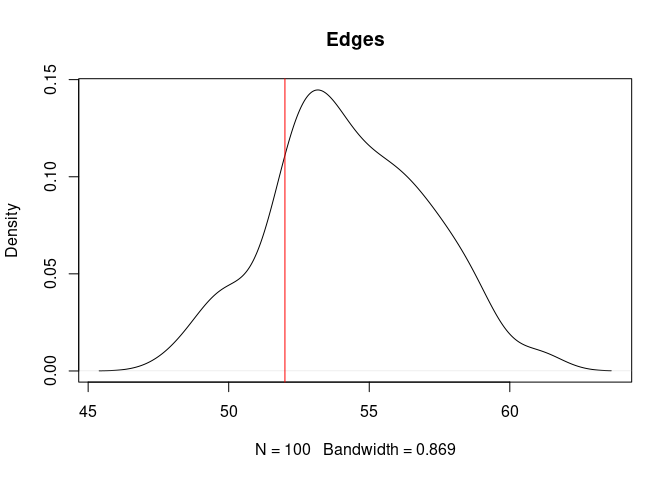
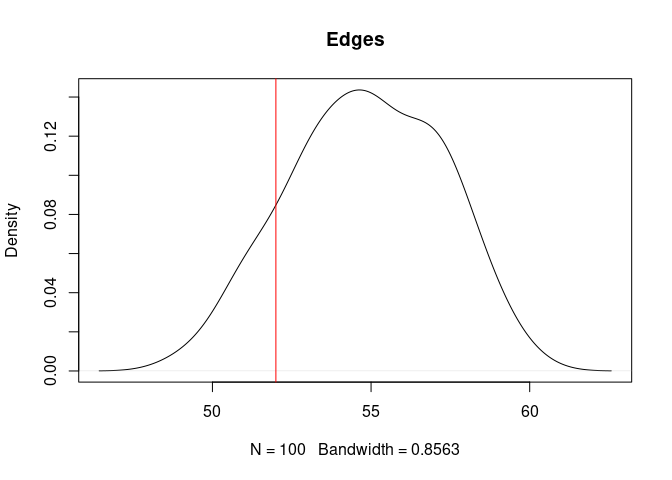
to v1.3.0. Rename 'Chez Thuilet' dataset in 'Villetoureix'. Add DOIs

diff --git a/README.md b/README.md
@@ -2,8 +2,17 @@
 # Archeofrag
 
 An R package for refitting and spatial analysis in archeology.
-
-`Archeofrag` includes methods to analyse spatial units in archaeology from the relationships between refitting fragmented objects scattered in these units (e.g. stratigraphic layers). Graphs are used to model archaeological observations. The package is mainly based on the `igraph` package for graph analysis. Functions can: 1) create, manipulate, visualise, and simulate fragmentation graphs, 2) measure the cohesion and admixture of archaeological spatial units, and 3) characterise the topology of a specific set of refitting relationships. A series of published empirical datasets is included. This package is complemented by the `archeofrag.gui` R package, a companion GUI application available at <https://analytics.huma-num.fr/archeofrag/>.
+`Archeofrag` includes methods to analyse spatial units in archaeology
+from the relationships between refitting fragmented objects scattered in
+these units (e.g. stratigraphic layers). Graphs are used to model
+archaeological observations. The package is mainly based on the `igraph`
+package for graph analysis. Functions can: 1) create, manipulate,
+visualise, and simulate fragmentation graphs, 2) measure the cohesion
+and admixture of archaeological spatial units, and 3) characterise the
+topology of a specific set of refitting relationships. A series of
+published empirical datasets is included. This package is complemented
+by the `archeofrag.gui` R package, a companion GUI application available
+at <https://analytics.huma-num.fr/archeofrag/>.
 
 [![Project Status: Active – The project has reached a stable, usable
 state and is being actively
@@ -23,65 +32,67 @@ Downloads](https://cranlogs.r-pkg.org/badges/grand-total/archeofrag?color=bright
 [![license](https://img.shields.io/badge/License-GPL%20v3-blue.svg)](https://www.r-project.org/Licenses/GPL-3)
 [![status](https://joss.theoj.org/papers/ff2007d87bd4c8460b265c69dc403316/status.svg)](https://joss.theoj.org/papers/ff2007d87bd4c8460b265c69dc403316)
 
-- [**References**](#references)
-- [**Installation**](#installation)
-  - [R package](#r-package)
-  - [GUI version](#gui-version)
-- [**Community guidelines**](#community-guidelines)
-  - [Reporting bugs](#reporting-bugs)
-  - [Suggesting changes](#suggesting-changes)
-- [**Building fragmentation graphs**](#building-the-fragmentation-graph)
-- [**Alterating fragmentation
-  graphs**](##alterating-fragmentation-graphs)
-- [**Edge weighting, cohesion and admixture
-  computation**](#edge-weighting-cohesion-and-admixture-computation)
-- [**Testing layer formation hypotheses using simulated
-  data**](#testing-layer-formation-hypotheses-using-simulated-data)
-  - [Generating artificial fragmentation
-    graphs](#generating-artificial-fragmentation-graphs)
-  - [Testing hypotheses](#testing-hypotheses)
-- [**Assessing spatial unit boundaries using similarity
-  relationships**](#assessing-spatial-unit-boundaries-using-similarity-relationships)
-- [**Characterising spatial units from their
-  fragmentation**](#characterising-spatial-units-from-their-fragmentation)
+  - [**References**](#references)
+  - [**Installation**](#installation)
+      - [R package](#r-package)
+      - [GUI version](#gui-version)
+  - [**Community guidelines**](#community-guidelines)
+      - [Reporting bugs](#reporting-bugs)
+      - [Suggesting changes](#suggesting-changes)
+  - [**Building fragmentation
+    graphs**](#building-the-fragmentation-graph)
+  - [**Alterating fragmentation
+    graphs**](##alterating-fragmentation-graphs)
+  - [**Edge weighting, cohesion and admixture
+    computation**](#edge-weighting-cohesion-and-admixture-computation)
+  - [**Testing layer formation hypotheses using simulated
+    data**](#testing-layer-formation-hypotheses-using-simulated-data)
+      - [Generating artificial fragmentation
+        graphs](#generating-artificial-fragmentation-graphs)
+      - [Testing hypotheses](#testing-hypotheses)
+  - [**Assessing spatial unit boundaries using similarity
+    relationships**](#assessing-spatial-unit-boundaries-using-similarity-relationships)
+  - [**Characterising spatial units from their
+    fragmentation**](#characterising-spatial-units-from-their-fragmentation)
 
 # References
 
 Details about the *archeofrag* / TSAR method were published in:
 
-- Plutniak, S. 2022. “Archeofrag: an R package for Refitting and Spatial
-  Analysis in Archaeology”, *Journal of Open Source Software*, 7 (75),
-  p. 4335. DOI:
-  [10.21105/joss.04335](https://doi.org/10.21105/joss.04335).
-- Plutniak, S. 2022. “[Archeofrag: un package R pour les remontages et
-  l’analyse spatiale en
-  archéologie](https://rzine.gitpages.huma-num.fr/site/ressources/20220811_archeofrag_joss/)”,
-  *Rzine*.
-- Plutniak, S. 2022. “[L’analyse topologique des remontages
-  archéologiques : la méthode TSAR et le package R
-  archeofrag](http://www.prehistoire.org/offres/doc_inline_src/515/0-BSPF_2022_1_2e_partie_Correspondance_PLUTNIAK.pdf)”,
-  *Bulletin de la Société préhistorique française*, 119 (1), p. 110–113.
-- Plutniak, S. 2021. “[The Strength of Parthood Ties. Modelling Spatial
-  Units and Fragmented Objects with the TSAR Method – Topological Study
-  of Archaeological
-  Refitting](https://hal.archives-ouvertes.fr/hal-03419952)” *Journal of
-  Archaeological Science*, 136, p. 105501. DOI:
-  [10.1016/j.jas.2021.105501](https://doi.org/10.1016/j.jas.2021.105501).
+  - Plutniak, S. 2022. “Archeofrag: an R package for Refitting and
+    Spatial Analysis in Archaeology”, *Journal of Open Source Software*,
+    7 (75), p. 4335. DOI:
+    [10.21105/joss.04335](https://doi.org/10.21105/joss.04335).
+  - Plutniak, S. 2022. “[Archeofrag: un package R pour les remontages et
+    l’analyse spatiale en
+    archéologie](https://rzine.gitpages.huma-num.fr/site/ressources/20220811_archeofrag_joss/)”,
+    *Rzine*.
+  - Plutniak, S. 2022. “[L’analyse topologique des remontages
+    archéologiques : la méthode TSAR et le package R
+    archeofrag](http://www.prehistoire.org/offres/doc_inline_src/515/0-BSPF_2022_1_2e_partie_Correspondance_PLUTNIAK.pdf)”,
+    *Bulletin de la Société préhistorique française*, 119 (1),
+    p. 110–113.
+  - Plutniak, S. 2021. “[The Strength of Parthood Ties. Modelling
+    Spatial Units and Fragmented Objects with the TSAR Method –
+    Topological Study of Archaeological
+    Refitting](https://hal.archives-ouvertes.fr/hal-03419952)” *Journal
+    of Archaeological Science*, 136, p. 105501. DOI:
+    [10.1016/j.jas.2021.105501](https://doi.org/10.1016/j.jas.2021.105501).
 
 Use cases were published in:
 
-- Plutniak, S., J. Caro, C. Manen 2023. “Four Problems for
-  Archaeological Fragmentation Studies. Discussion and Application to
-  the Taï Cave’s Neolithic Pottery Material (France)”, in A. Sörman et
-  al., *Broken Bodies, Places and Objects. New Perspectives on
-  Fragmentation in Archaeology*, London: Routledge, DOI:
-  [10.4324/9781003350026-10](https://doi.org/10.4324/9781003350026-10).
-- Plutniak, S. 2021. “[The Strength of Parthood Ties. Modelling Spatial
-  Units and Fragmented Objects with the TSAR Method – Topological Study
-  of Archaeological
-  Refitting](https://hal.archives-ouvertes.fr/hal-03419952)” *Journal of
-  Archaeological Science*, 136, p. 105501. DOI:
-  [10.1016/j.jas.2021.105501](https://doi.org/10.1016/j.jas.2021.105501).
+  - Plutniak, S., J. Caro, C. Manen 2023. “Four Problems for
+    Archaeological Fragmentation Studies. Discussion and Application to
+    the Taï Cave’s Neolithic Pottery Material (France)”, in A. Sörman et
+    al., *Broken Bodies, Places and Objects. New Perspectives on
+    Fragmentation in Archaeology*, London: Routledge, DOI:
+    [10.4324/9781003350026-10](https://doi.org/10.4324/9781003350026-10).
+  - Plutniak, S. 2021. “[The Strength of Parthood Ties. Modelling
+    Spatial Units and Fragmented Objects with the TSAR Method –
+    Topological Study of Archaeological
+    Refitting](https://hal.archives-ouvertes.fr/hal-03419952)” *Journal
+    of Archaeological Science*, 136, p. 105501. DOI:
+    [10.1016/j.jas.2021.105501](https://doi.org/10.1016/j.jas.2021.105501).
 
 # Installation
 
@@ -114,11 +125,10 @@ BiocManager::install("RBGL")
 
 The `archeofrag` package is complemented by a graphic-user interface
 version, `archeofrag.gui` (also distributed as an R package). See a
-[live demo
-here](https://analytics.huma-num.fr/archeofrag/).
-This GUI version, focusing on connection relationships only
-(i.e. “proper refits”), make it easy to explore quickly and efficiently
-a refitting dataset.
+[live demo here](https://analytics.huma-num.fr/archeofrag/). This GUI
+version, focusing on connection relationships only (i.e. “proper
+refits”), make it easy to explore quickly and efficiently a refitting
+dataset.
 
 # Community guidelines
 
@@ -144,13 +154,14 @@ them, called “Liang Abu”, related to the pottery fragments found on the
 surface and in the first two layers of the Liang Abu rock shelter,
 Borneo, Indonesia. The data set contains three data frames:
 
-- a table with information about the fragments (a unique identifier, the
-  layer, their length and width, etc.),
-- a table with the connection relationships between these fragments
-  (each row contains the unique identifiers of two refitting fragments),
-- a table with the similarity relationships between these fragments (two
-  fragments are termed “similar” if they seem to come from the same
-  object but do not have connecting edges.
+  - a table with information about the fragments (a unique identifier,
+    the layer, their length and width, etc.),
+  - a table with the connection relationships between these fragments
+    (each row contains the unique identifiers of two refitting
+    fragments),
+  - a table with the similarity relationships between these fragments
+    (two fragments are termed “similar” if they seem to come from the
+    same object but do not have connecting edges.
 
 The `make_frag_object` function builds objects with the class “frag”.
 Frag objects are not required by the other `Archeofrag` functions,
@@ -195,7 +206,7 @@ par(mar=c(1, 0, 2, 0))
 frag.graph.plot(abu.g, layer.attr="layer", main="All layers")
 ```
 
-<img src="man/figures/README-manipulate-plot-abu-1.png" style="display: block; margin: auto;" />
+<img src="man/figures/README-manipulate-plot-abu-1.png" alt="" style="display: block; margin: auto;" />
 
 The fragments are coloured by layer and the three inter-layer
 relationships can be observed.
@@ -215,7 +226,7 @@ par(mar=c(1, 0, 2, 0))
 frag.graph.plot(abu.g12, layer.attr="layer", main="Layers 1 and 2")
 ```
 
-<img src="man/figures/README-manipulate-plot-abu2-1.png" style="display: block; margin: auto;" />
+<img src="man/figures/README-manipulate-plot-abu2-1.png" alt="" style="display: block; margin: auto;" />
 
 The function has a different behaviour if applied to a fragmentation
 graph with only two spatial units: the nodes are vertically localised to
@@ -231,12 +242,15 @@ between the two spatial units (`mixed.components.only`).
 ``` r
 frag.get.layers.pair(abu.g, layer.attr="layer", sel.layers=c("1", "2"),
                      size.mini=2, mixed.components.only=TRUE)
-#> IGRAPH bed61b7 UN-- 19 22 -- 
-#> + attr: frag_type (g/c), name (v/c), layer (v/n), zmin (v/n), zmax (v/n), square (v/c), square.x (v/n), square.y (v/n), thickness
-#> | (v/n), length (v/n), thickness.by.length (v/n), sherd.type (v/c), membership (v/n), type_relation (e/c)
-#> + edges from bed61b7 (vertex names):
-#>  [1] 27 --28  28 --835 835--836 25 --8   27 --366 27 --367 28 --367 366--367 27 --371 332--371 366--371 187--188 165--195 25 --195 195--196
-#> [16] 195--197 196--198 195--204 196--204 197--204 198--204 188--250
+#> IGRAPH 843fcd7 UN-- 19 22 -- 
+#> + attr: frag_type (g/c), name (v/c), layer (v/n), zmin (v/n), zmax
+#> | (v/n), square (v/c), square.x (v/n), square.y (v/n), thickness (v/n),
+#> | length (v/n), thickness.by.length (v/n), sherd.type (v/c), membership
+#> | (v/n), type_relation (e/c)
+#> + edges from 843fcd7 (vertex names):
+#>  [1] 27 --28  28 --835 835--836 25 --8   27 --366 27 --367 28 --367 366--367
+#>  [9] 27 --371 332--371 366--371 187--188 165--195 25 --195 195--196 195--197
+#> [17] 196--198 195--204 196--204 197--204 198--204 188--250
 ```
 
 Additionally, the `frag.get.layers` function can extract a set of
@@ -246,11 +260,14 @@ Liang Abu:
 ``` r
 frag.get.layers(abu.g, layer.attr="layer", sel.layers="1")
 #> $`1`
-#> IGRAPH 2e63535 UN-- 23 18 -- 
-#> + attr: frag_type (g/c), name (v/c), layer (v/n), zmin (v/n), zmax (v/n), square (v/c), square.x (v/n), square.y (v/n), thickness
-#> | (v/n), length (v/n), thickness.by.length (v/n), sherd.type (v/c), type_relation (e/c)
-#> + edges from 2e63535 (vertex names):
-#>  [1] 392--408  123--124  301--302  313--314  435--441  477--478  25 --8    435--9999 441--9999 187--188  25 --195  195--196  195--197  196--198 
+#> IGRAPH e44c149 UN-- 23 18 -- 
+#> + attr: frag_type (g/c), name (v/c), layer (v/n), zmin (v/n), zmax
+#> | (v/n), square (v/c), square.x (v/n), square.y (v/n), thickness (v/n),
+#> | length (v/n), thickness.by.length (v/n), sherd.type (v/c),
+#> | type_relation (e/c)
+#> + edges from e44c149 (vertex names):
+#>  [1] 392--408  123--124  301--302  313--314  435--441  477--478  25 --8   
+#>  [8] 435--9999 441--9999 187--188  25 --195  195--196  195--197  196--198 
 #> [15] 195--204  196--204  197--204  198--204
 ```
 
@@ -483,6 +500,15 @@ params
 #> 
 #> $planar
 #> [1] TRUE
+#> 
+#> $edge.weights.sum
+#> [1] 210.1143
+#> 
+#> $edge.weights.median
+#> [1] 1.849523
+#> 
+#> $edge.weights.median.abs.dev.
+#> [1] 0.7554912
 ```
 
 ``` r
@@ -537,7 +563,7 @@ plot(density(edges.res), main="Edges")
 abline(v=params$edges, col="red")
 ```
 
-<img src="man/figures/README-simulator-test2-edges-1.png" style="display: block; margin: auto;" />
+<img src="man/figures/README-simulator-test2-edges-1.png" alt="" style="display: block; margin: auto;" />
 
 Similarly, the empirical admixture value is lower than the simulated
 admixture values:
@@ -549,7 +575,7 @@ plot(density(admix.res), main="Admixture")
 abline(v=frag.layers.admixture(abu.g12, "layer"), col="red")
 ```
 
-<img src="man/figures/README-simulator-test2-admix-1.png" style="display: block; margin: auto;" />
+<img src="man/figures/README-simulator-test2-admix-1.png" alt="" style="display: block; margin: auto;" />
 
 Two functions (`frag.simul.compare` and `frag.simul.summarise`)
 facilitate the execution of the analytical process described above on
@@ -565,13 +591,20 @@ value, admixture value, and cohesion values of the two spatial units).
 compare.res <- frag.simul.compare(abu.g12, layer.attr="layer",
                                   iter=30, summarise=FALSE)
 head(compare.res$h1.data)
-#>   edges weightsum balance components.balance disturbance admixture cohesion1 cohesion2
-#> 1    53  186.2886    0.32               0.32        0.04    0.0384    0.2964    0.6652
-#> 2    56  271.7788    0.29               0.33        0.04    0.0142    0.1958    0.7900
-#> 3    51  180.1365    0.30               0.27        0.04    0.0194    0.3071    0.6735
-#> 4    53  223.0447    0.33               0.35        0.04    0.0166    0.3015    0.6819
-#> 5    51  172.1320    0.35               0.36        0.01    0.0190    0.3476    0.6334
-#> 6    52  218.8517    0.33               0.37        0.01    0.0012    0.2466    0.7522
+#>   edges balance components.balance disturbance admixture cohesion1 cohesion2
+#> 1    57    0.33               0.35        0.04    0.0249    0.2652    0.7099
+#> 2    53    0.34               0.35        0.04    0.0303    0.3505    0.6192
+#> 3    56    0.30               0.35        0.04    0.0141    0.1526    0.8333
+#> 4    55    0.26               0.26        0.01    0.0010    0.1116    0.8874
+#> 5    51    0.31               0.35        0.04    0.0100    0.1653    0.8247
+#> 6    55    0.31               0.31        0.04    0.0081    0.4598    0.5321
+#>   edge.weights.sum edge.weights.median edge.weights.median.abs.dev.
+#> 1         263.5361            5.614984                     5.227784
+#> 2         204.3602            2.126317                     1.050826
+#> 3         274.1716            4.760399                     4.694291
+#> 4         276.5449            5.637315                     5.408582
+#> 5         196.9117            2.373996                     2.201820
+#> 6         255.8637            4.536722                     4.394414
 ```
 
 For each of these parameters, the `frag.simul.summarise` function
@@ -582,15 +615,17 @@ simulated values generated for H1 and H2.
 frag.simul.summarise(abu.g12, layer.attr="layer",
                      compare.res$h1.data,
                      compare.res$h2.data)
-#>                    H1 != H2? p.value Obs. value/H1 Obs. value/H2
-#> edges                  FALSE    0.19        within        within
-#> weightsum              FALSE    0.15        within        within
-#> balance                FALSE    0.53        within        within
-#> components.balance      TRUE       0         lower        within
-#> disturbance            FALSE    0.16        within        within
-#> admixture              FALSE    0.94         lower         lower
-#> cohesion1               TRUE       0        higher        higher
-#> cohesion2               TRUE       0         lower        within
+#>                              H1 != H2? p.value Obs. value/H1 Obs. value/H2
+#> edges                            FALSE     0.5         lower         lower
+#> balance                          FALSE    0.14        within        within
+#> components.balance                TRUE       0         lower        within
+#> disturbance                      FALSE    0.31        within        within
+#> admixture                        FALSE    0.66        within         lower
+#> cohesion1                         TRUE       0        higher        within
+#> cohesion2                         TRUE       0         lower        within
+#> edge.weights.sum                 FALSE     0.3         lower         lower
+#> edge.weights.median              FALSE    0.17         lower         lower
+#> edge.weights.median.abs.dev.     FALSE    0.26         lower         lower
 ```
 
 This function returns a data frame with four columns, containing, for
@@ -693,10 +728,13 @@ plot(clust.res, hang=-1, axes=F, ann=F)
 <div class="figure" style="text-align: center">
 
 <img src="man/figures/README-similarity-dendr-fig-1.png" alt="Hierarchical clustering of the pottery layers in Liang Abu (distance: based on the number of similarity relationships; clustering method: Ward)."  />
+
 <p class="caption">
+
 Hierarchical clustering of the pottery layers in Liang Abu (distance:
 based on the number of similarity relationships; clustering method:
 Ward).
+
 </p>
 
 </div>
@@ -735,8 +773,8 @@ rbind(
   "unit1" = frag.cycles(simul.g1, kmax=5),
   "unit2" = frag.cycles(simul.g2, kmax=5))
 #>       3-cycles 4-cycles 5-cycles
-#> unit1        8        2        0
-#> unit2       19        8        1
+#> unit1       17        6        1
+#> unit2       33       24        9
 ```
 
 The `frag.path.lengths` function returns the distribution of the path
@@ -749,11 +787,11 @@ path lengths.
 
 ``` r
 frag.path.lengths(simul.g1)
-#> [1] 30  6
+#> [1] 34  7
 frag.path.lengths(simul.g2)
-#> [1] 45 13
+#> [1] 52 13
 frag.path.lengths(simul.g2, cumulative=T)
-#> [1] 1.0000000 0.2888889
+#> [1] 1.00 0.25
 ```
 
 In a graph, the shortest path between two vertices is the path including
@@ -766,7 +804,7 @@ cumulative relative frequency of the diameters.
 ``` r
 frag.diameters(simul.g1)
 #> 1 2 
-#> 4 6
+#> 6 4
 frag.diameters(simul.g2)
 #> 1 2 
 #> 4 6
